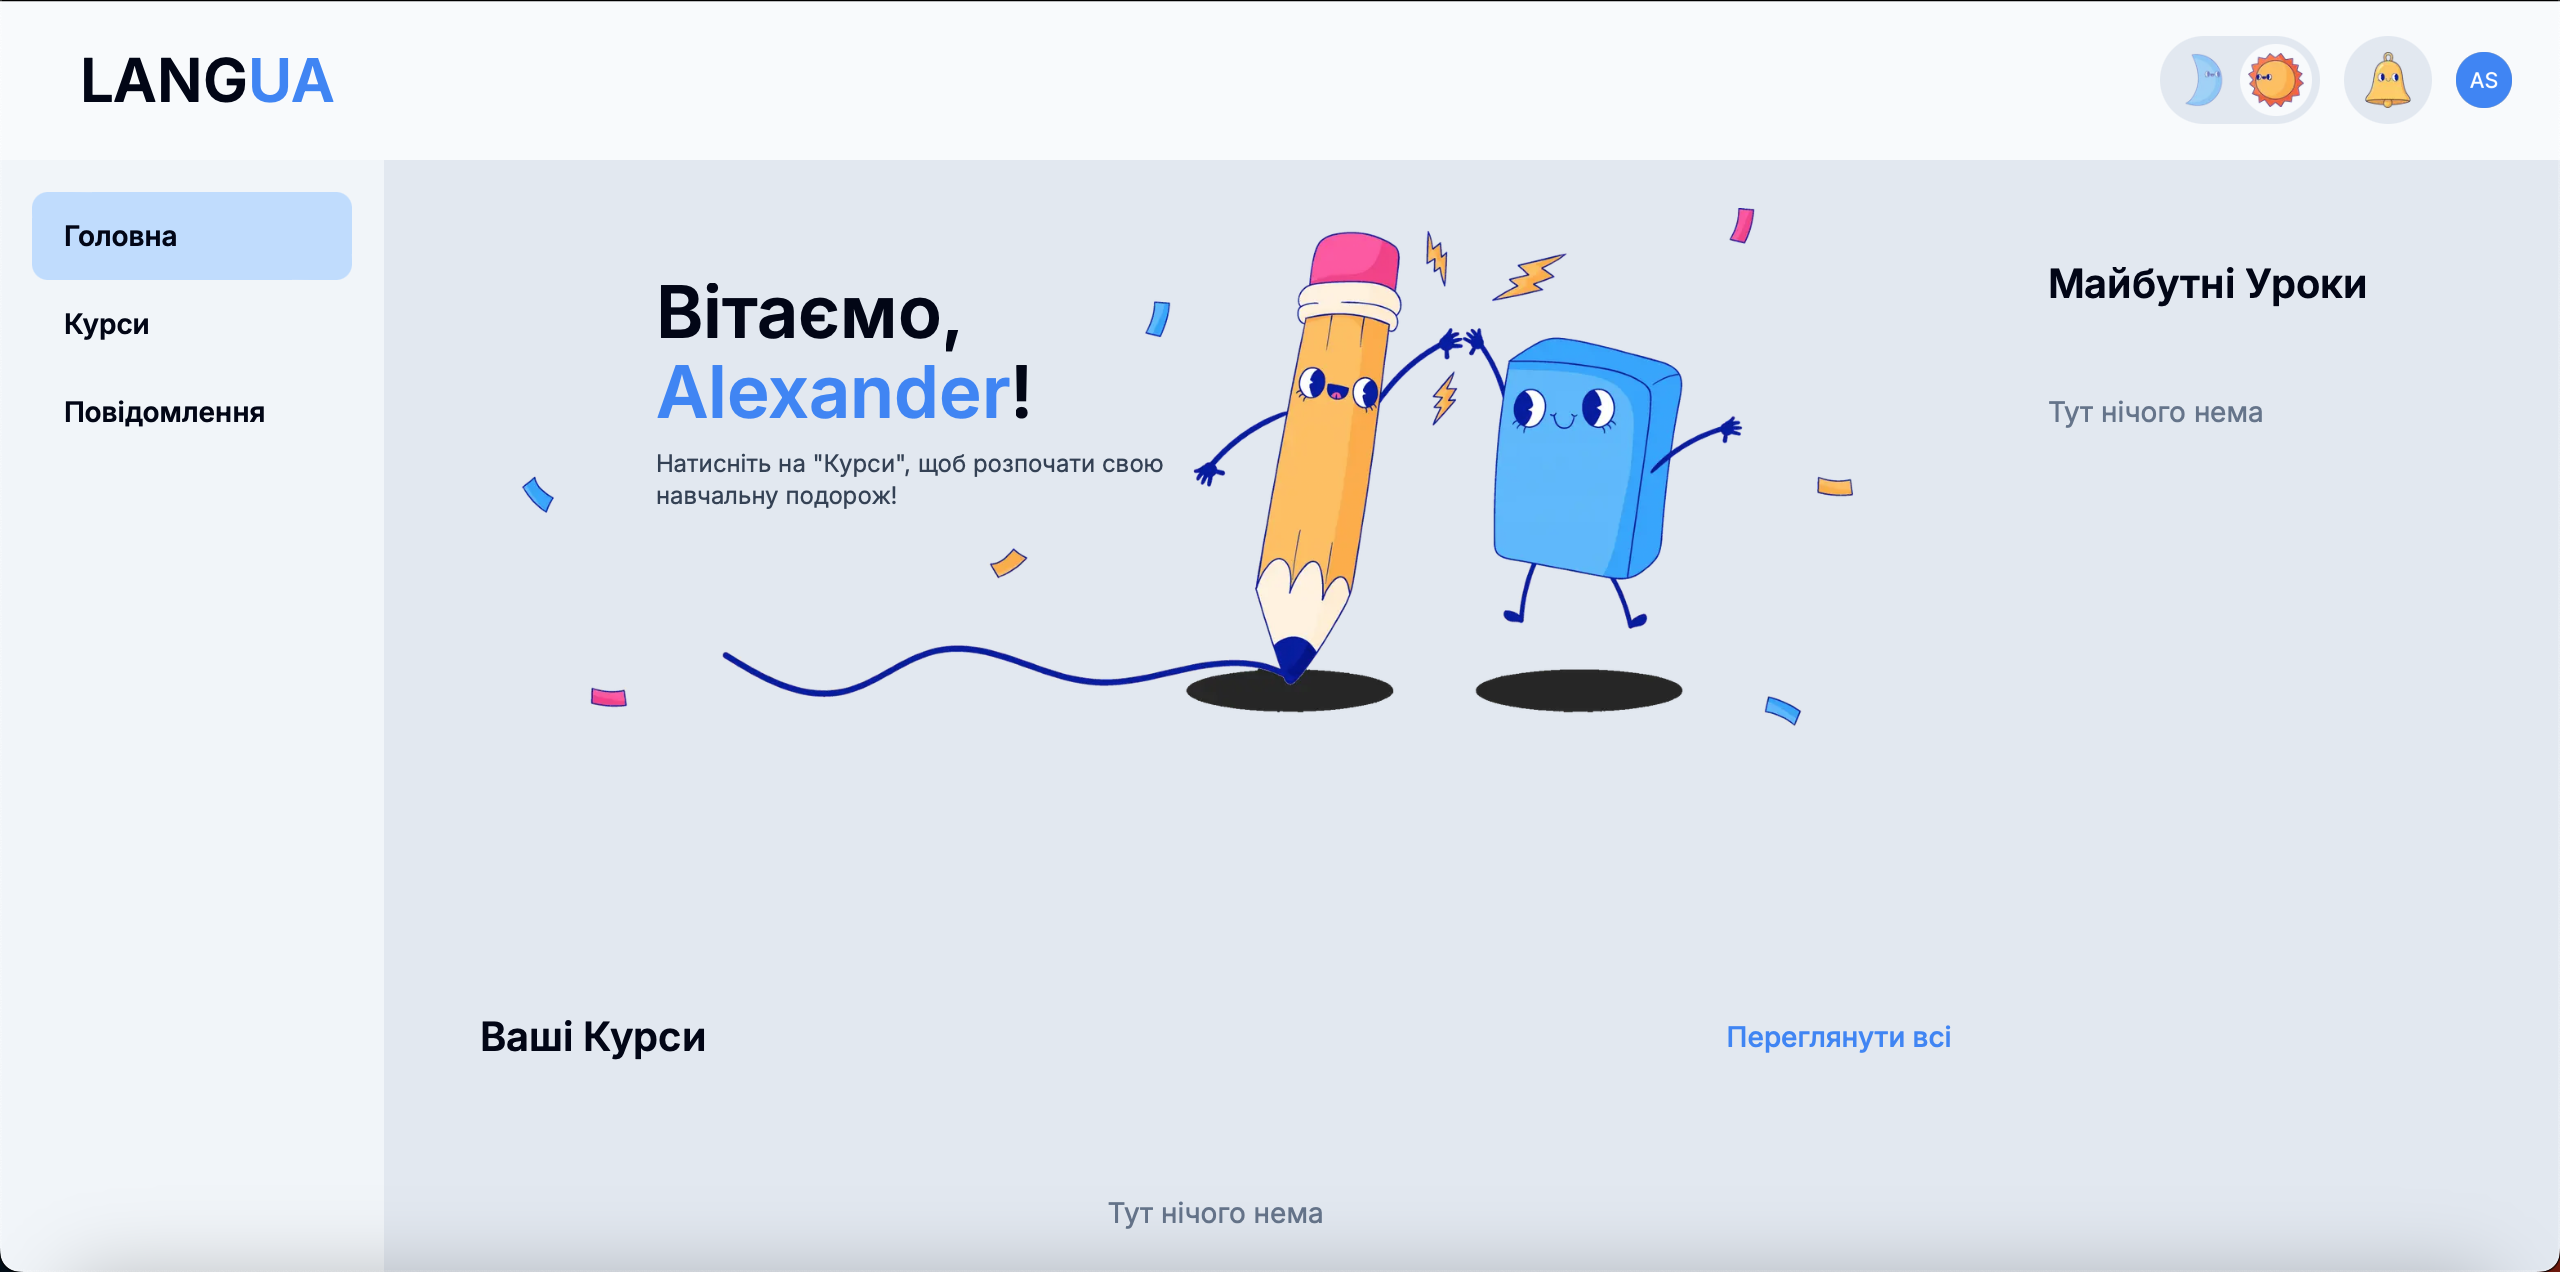
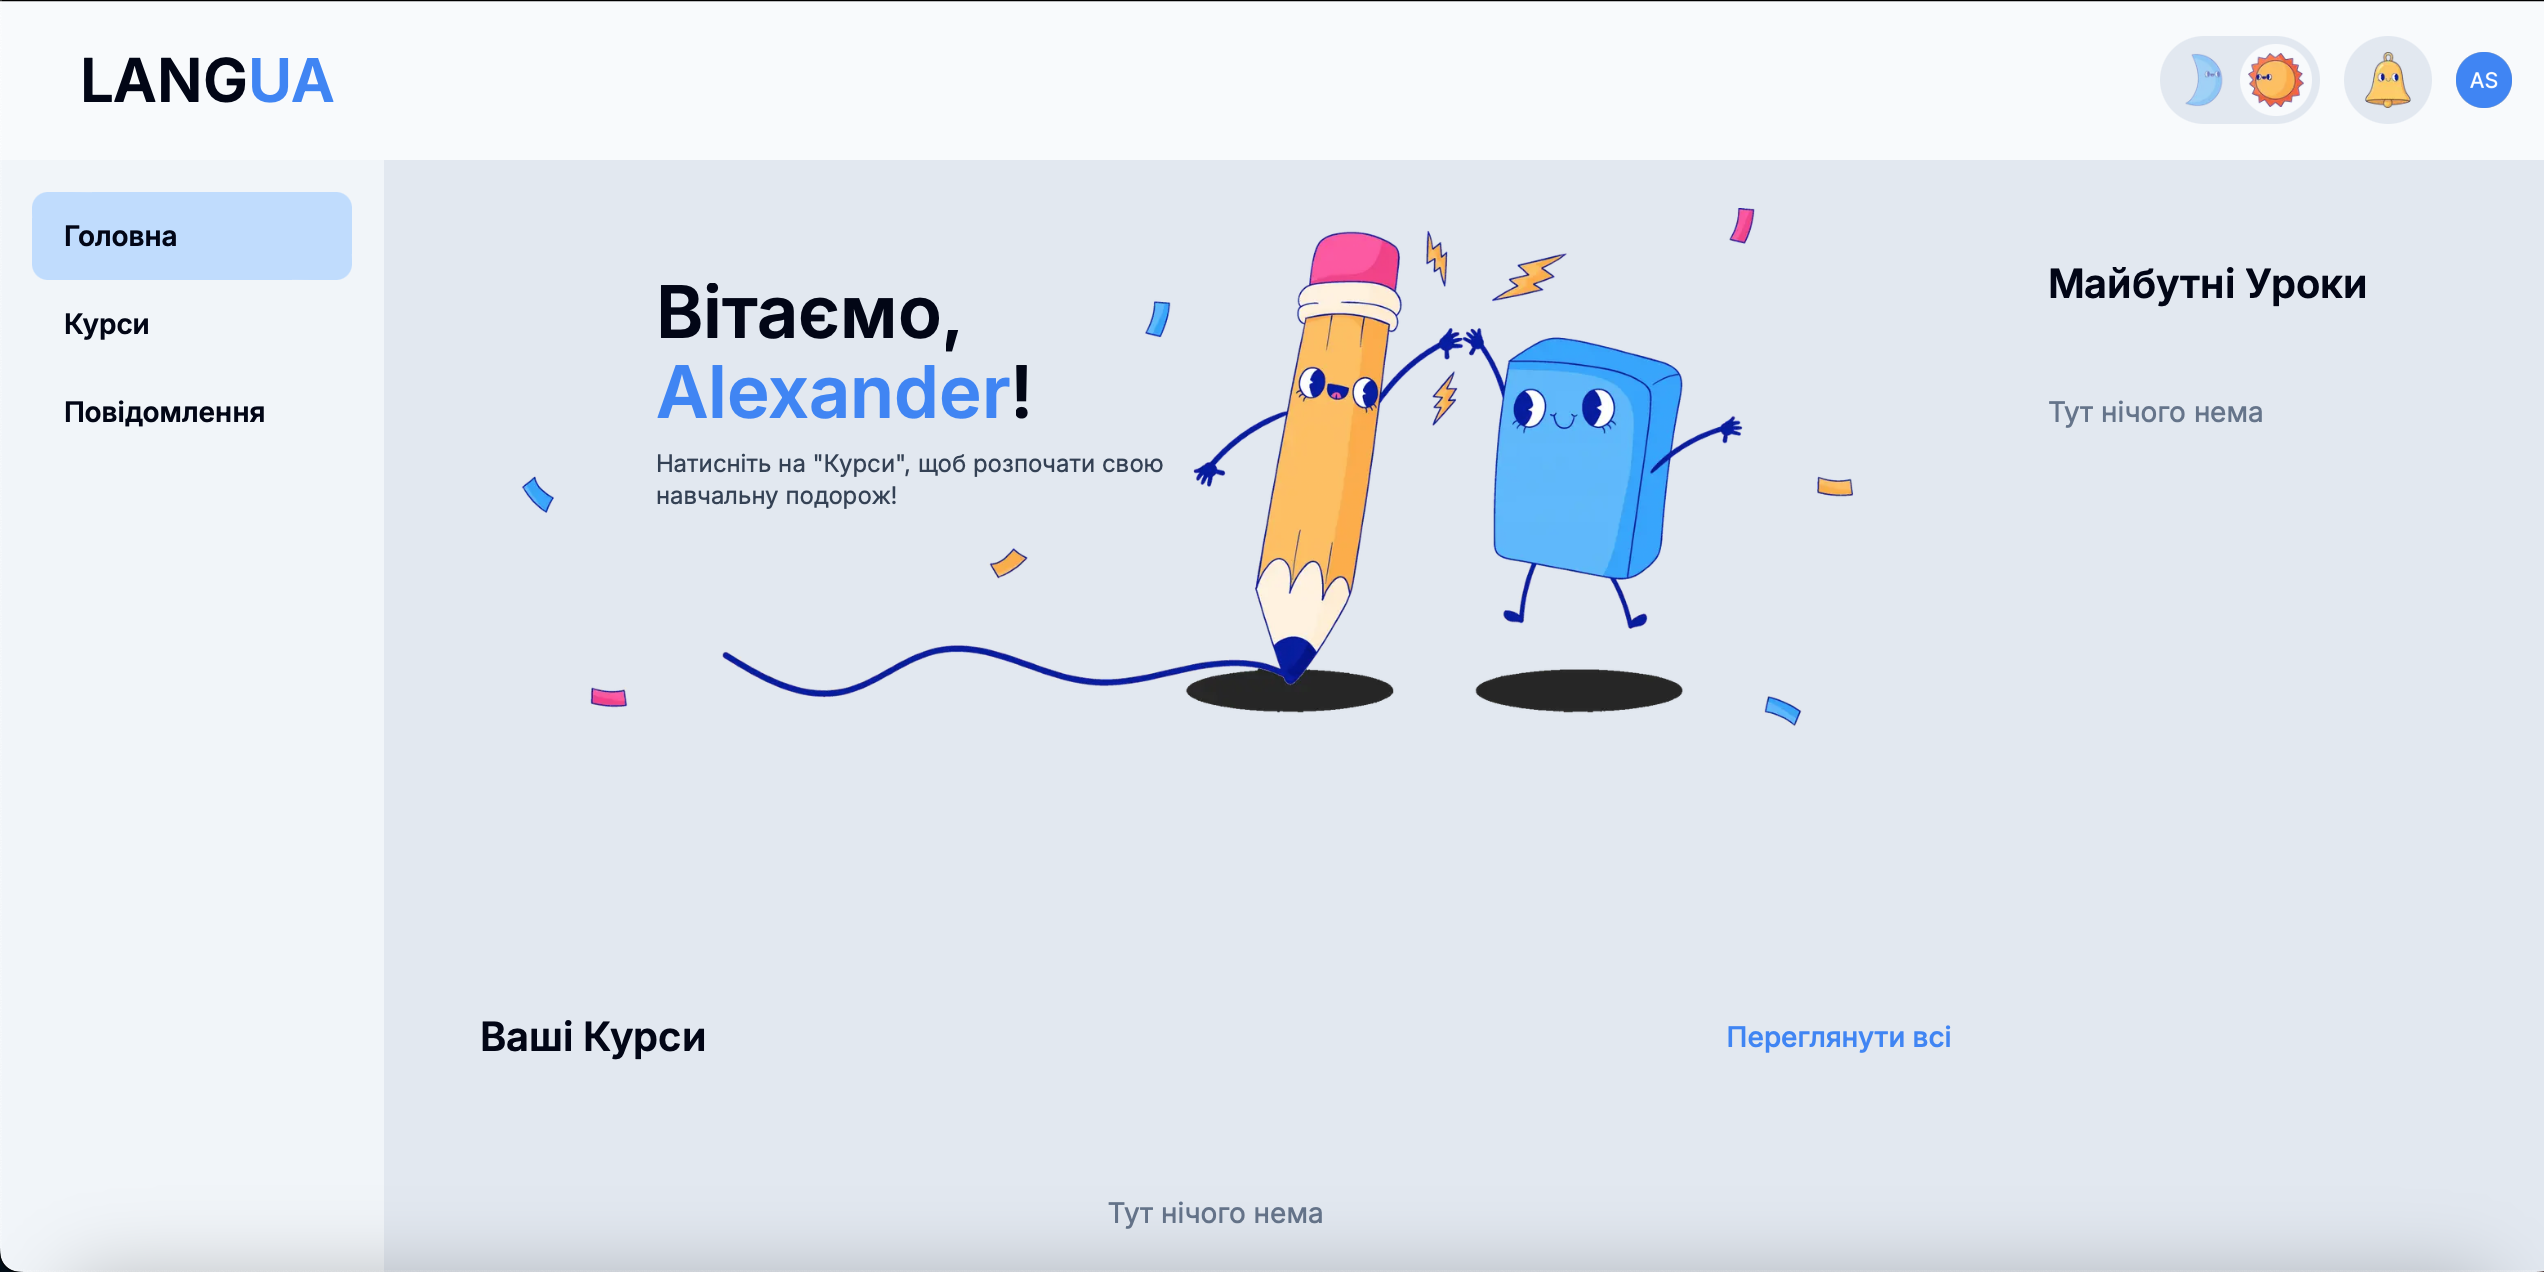
changed project thumbnails

diff --git a/src/components/sectionProjects.jsx b/src/components/sectionProjects.jsx
@@ -4,6 +4,8 @@ import '../index.css'; // Make sure to import your CSS file
 import { useTranslation } from 'react-i18next';
 import languaScreenshot from './../../public/images/screenshots/langua.png';
 import vectorScreenshot from './../../public/images/screenshots/vector.png';
+import mioScreenshot from './../../public/images/screenshots/mio.jpeg';
+import peakScreenshot from './../../public/images/screenshots/peak.png';
 
 const projectsData = [
   {
@@ -16,19 +18,19 @@ const projectsData = [
     title: 'Vector E-Lab',
     subtitle: 'Interactive Chemistry Tool',
     thumbnail: vectorScreenshot,
-    link: 'https://lang-ua.vercel.app/',
+    link: 'https://e-lab-beta.vercel.app',
   },
   {
     title: 'MIO Connect',
     subtitle: 'Prosthetic Configuration Software',
-    thumbnail: languaScreenshot,
+    thumbnail: mioScreenshot,
     link: 'https://lang-ua.vercel.app/',
   },
   {
     title: 'Peak Fitness',
     subtitle: 'Community Fitness Application',
-    thumbnail: languaScreenshot,
-    link: 'https://lang-ua.vercel.app/',
+    thumbnail: peakScreenshot,
+    link: 'https://github.com/a-shchebelskyy/Peak-Fitness',
   },
 ];
 
